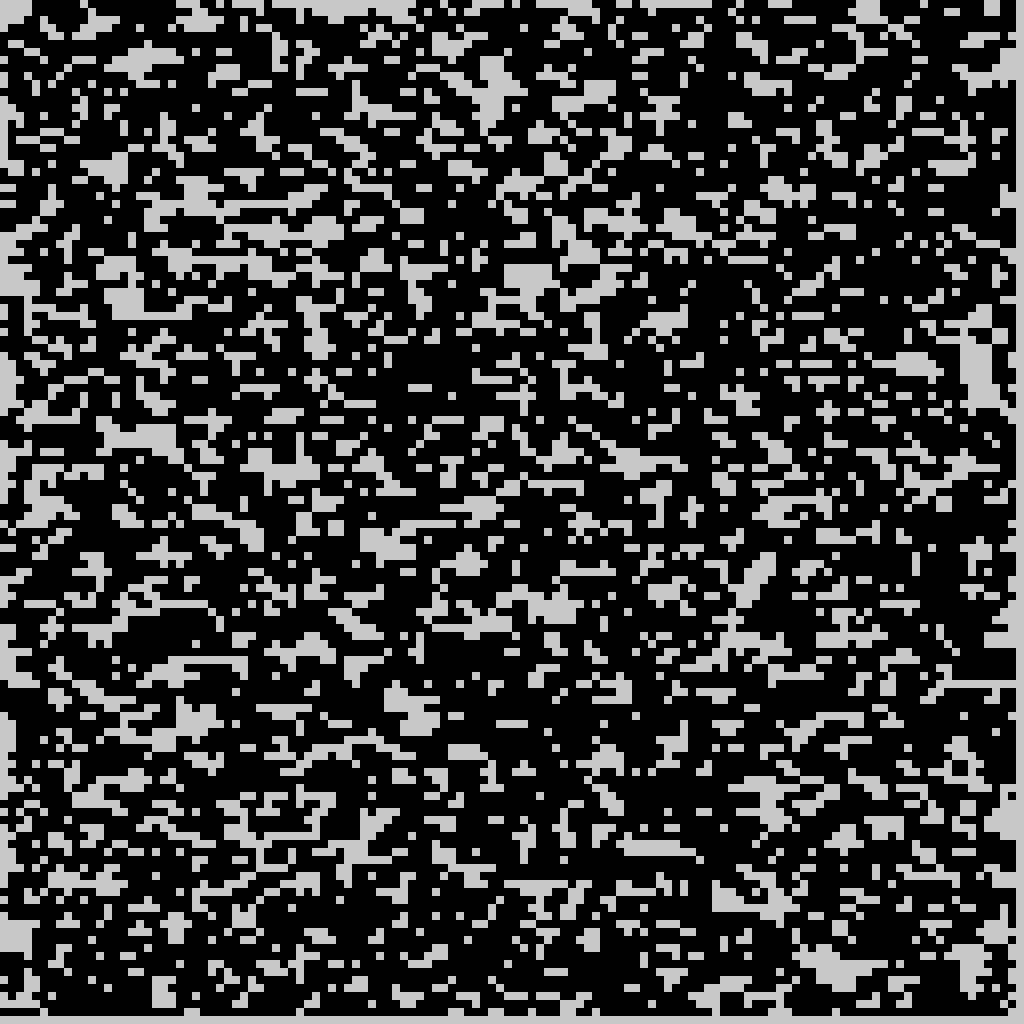
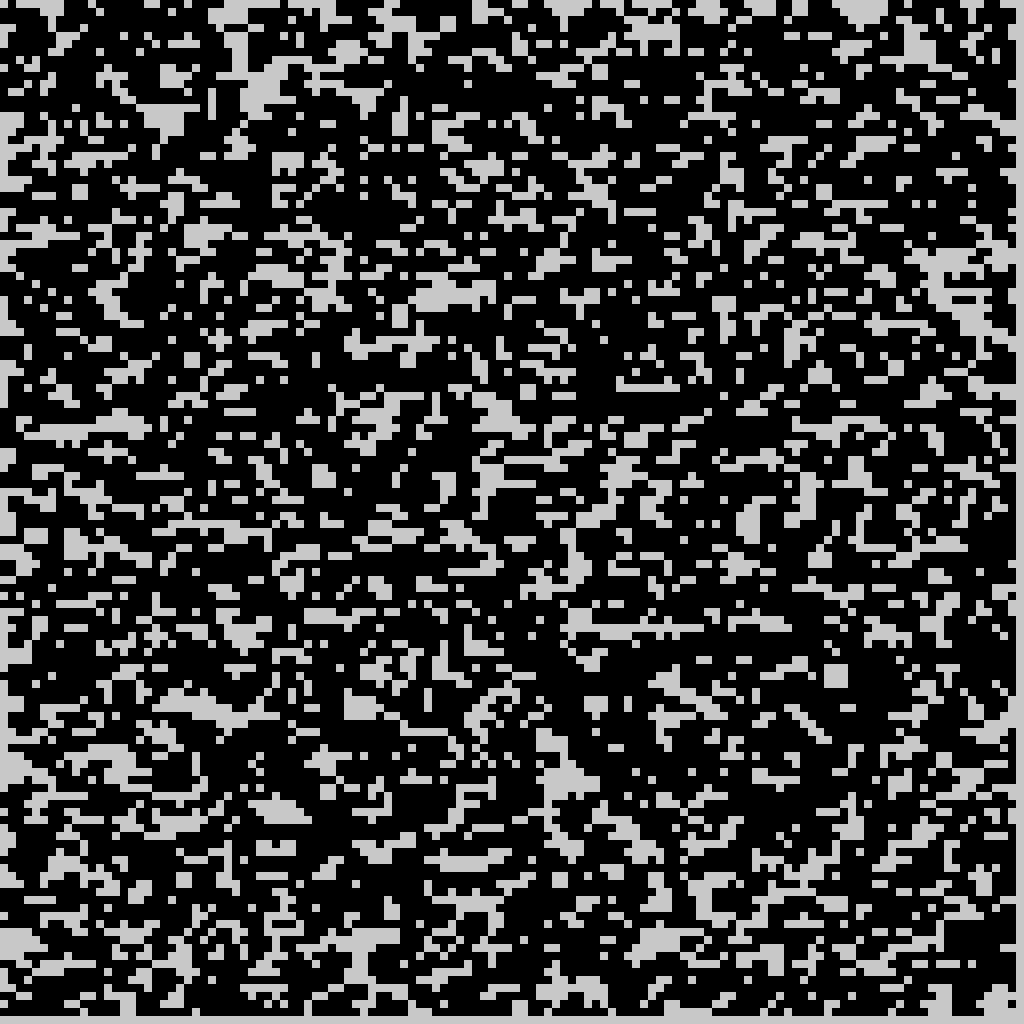
Occupancy 70 percent

diff --git a/getting_started/solution/obstacle_field/env_utils.py b/getting_started/solution/obstacle_field/env_utils.py
@@ -13,7 +13,7 @@ screen_height = grid_height*block_size
 COLOR_BLACK = (0, 0, 0)
 COLOR_WHITE = (200, 200, 200)
 
-obstacle_occupancy_percent = 50
+obstacle_occupancy_percent = 70
 
 # #Tetrominos
 tetro = [
